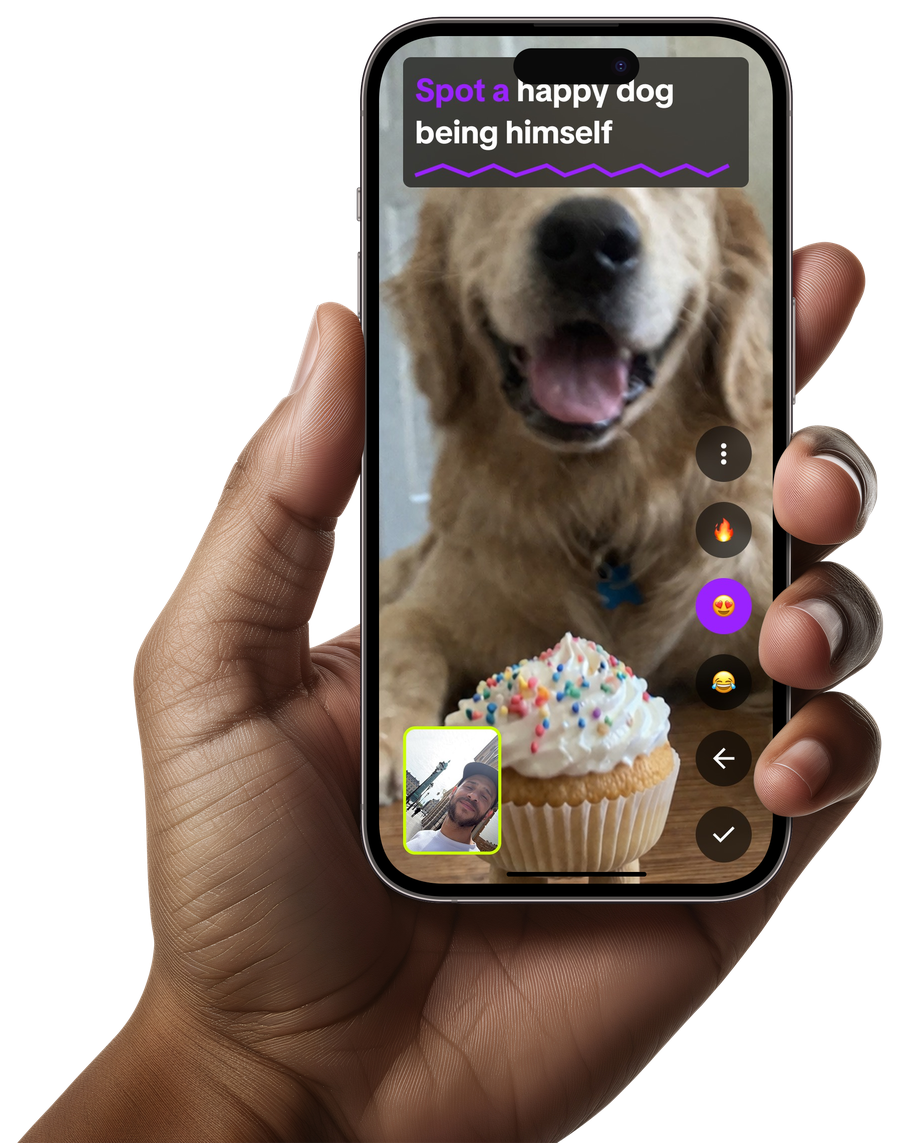
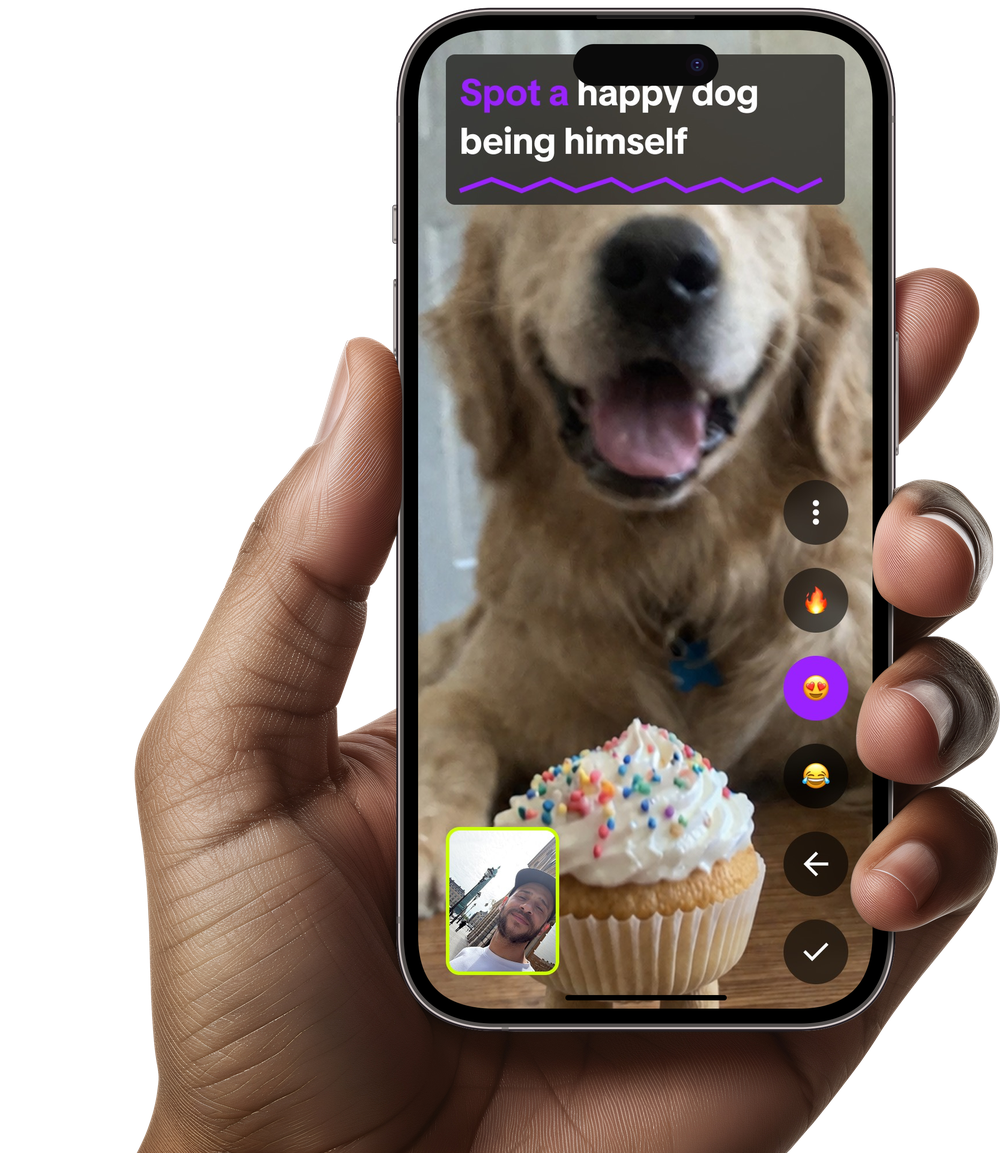
Enlarge and tighten the SpotA hand mockup
Cropped the excess forearm out of the source composite so the phone
reads bigger relative to the frame, and gave it a taller, wider stage
(min-height on the card, larger max width) so the screen is actually
legible instead of looking like a tiny pasted sticker.

diff --git a/src/components/SpotaFeature.tsx b/src/components/SpotaFeature.tsx
@@ -74,8 +74,10 @@ export function SpotaFeature() {
         }
         @media (min-width: 768px) {
           /* Colonne droite plus large que la photo : elle se centre dedans
-             au lieu de coller le bord de la carte. */
-          .spota-feature { grid-template-columns: 1fr 380px; gap: 40px; }
+             au lieu de coller le bord de la carte. Hauteur mini pour que la
+             photo ait la place de se voir grande, pas ratatinee a la
+             hauteur du texte. */
+          .spota-feature { grid-template-columns: 1fr 420px; gap: 40px; min-height: 520px; }
         }
 
         .spota-feature h1 {
@@ -109,8 +111,8 @@ export function SpotaFeature() {
         }
         .spota-feature .spota-btn:hover { filter: brightness(1.06); }
         .spota-feature .spota-fine-print { font-size: 12.5px; color: rgba(255,255,255,0.38); }
-        .spota-feature-stage { display: flex; justify-content: center; padding: 20px; }
-        .spota-hand-shot { width: min(300px, 68vw); height: auto; display: block; }
+        .spota-feature-stage { display: flex; align-items: center; justify-content: center; padding: 12px; }
+        .spota-hand-shot { width: min(420px, 78vw); height: auto; display: block; }
       `}</style>
     </div>
   );
